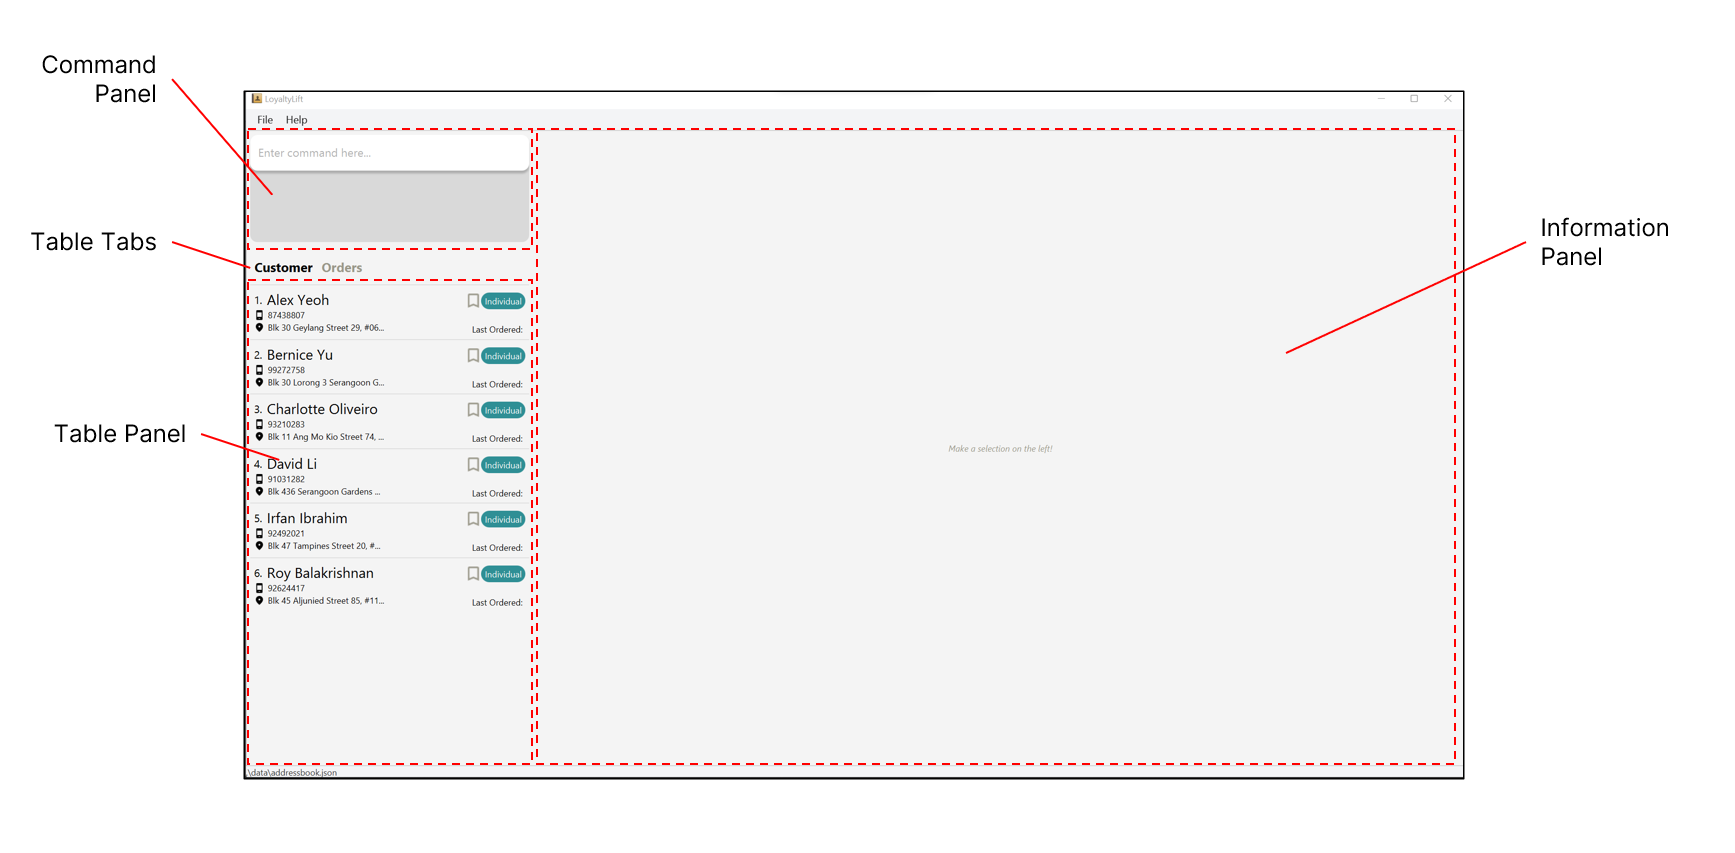
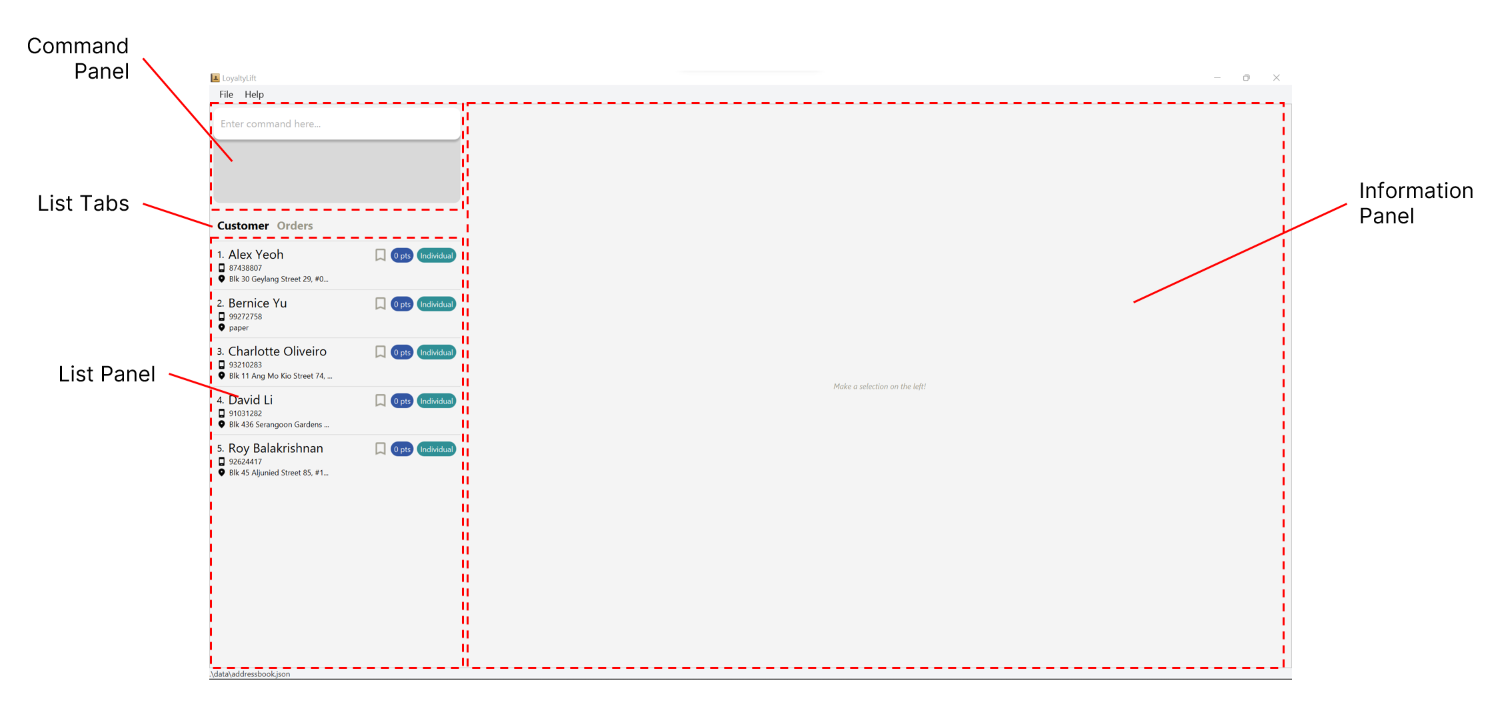
chore: Update descriptions and layout explanation in UG

diff --git a/docs/UserGuide.md b/docs/UserGuide.md
@@ -72,23 +72,22 @@ Before starting your journey with LoyaltyLift, let's take a quick look at the la
 
 ![Layout of LoyaltyLift](images/loyaltyLiftLayout.png)
 
-It comprises 3 panels, the Information Panel, Command Panel and Table Panel. 
-The table panel displays either the **customers** or **orders**. 
-This can be configured by selecting the corresponding tab in the Table Tabs area.
-
+It comprises 3 panels, the _Information Panel_, _Command Panel_ and _List Panel_. 
+The _List Panel_ displays either **customers** or **orders**, which is controlled by _List Tabs_.
+  
 The components are summarised below.
 
-|         Component | Purpose                                                           |
-|------------------:|:------------------------------------------------------------------|
-|     Command Panel | Input area to submit your command to LoyaltyLift                  |
-| Information Panel | Displays details of a specific customer or order                  |
-|       Table Panel | Displays list of customers or orders                              |
-|        Table Tabs | Switch between displaying customers and orders in the Table Panel |
+|         Component | Purpose                                                            |
+|------------------:|:-------------------------------------------------------------------|
+|     Command Panel | Input area to submit your command to LoyaltyLift                   |
+| Information Panel | Displays details of a specific customer or order                   |
+|        List Panel | Displays list of customers or orders                               |
+|         List Tabs | Switch between displaying customers and orders in the _List Panel_ |
 
 #### Using the CLI
 {: .no_toc}
 
-The Command Panel is where you type your commands and submit them.
+The _Command Panel_ is where you type your commands and submit them.
 LoyaltyLift then processes your request and performs them if it is successful.
 
 If LoyaltyLift understands your request, it will perform it and display feedback that it has succeeded, as seen below.
@@ -200,7 +199,7 @@ Let's take a look at our current list of orders, which should only consist of th
     listo
 
 Notice that the order's status is now 'Pending'.
-To advance an order's status, the [`advo`]() command will come in handy, which takes the order index as its only parameter.
+To advance an order's status, the [`advo`](#advancing-an-order-status-advo) command will come in handy, which takes the order index as its only parameter.
 
     advo 1
 
@@ -212,7 +211,7 @@ Further attempts to advance the order status will return an error!
 #### Reverting an order's status
 {: .no_toc}
 
-To revert an order's status, the [`revo`]() command is similar to `advo` but has the inverse effect. 
+To revert an order's status, the [`revo`](#reverting-an-order-status-revo) command is similar to [`advo`](#advancing-an-order-status-advo) but has the inverse effect. 
 
     revo 1
 
@@ -222,7 +221,7 @@ As expected, trying to revert the status when it is already 'Pending', will be m
 #### Cancelling an order
 {: .no_toc}
 
-An order can be cancelled at any stage of the order. This can be performed with the [`cancelo`]() command.
+An order can be cancelled at any stage of the order. This can be performed with the [`cancelo`](#cancel-an-order-cancelo) command.
 
     cancelo 1
 
@@ -318,7 +317,6 @@ Here are some recommended features to explore after this tutorial.
 
 * Editing a customer or order's information with [`editc`](#editing-a-customer--editc) or [`edito`](#editing-an-order--edito)
 * Assigning a customer as an individual or enterprise with [`addc`](#adding-a-customer--addc) or [`editc`](#editing-a-customer--editc)
-* Set or adding rewards points for the customer with [`setpoints`](#setting-reward-points-for-a-customer--setpoints) or [`addpoints`](#adding-points-for-a-customer--removing-points-from-a-customer--addpoints)
 
 [🠕 Back To Top](#table-of-contents)
 
@@ -340,7 +338,7 @@ Here are some recommended features to explore after this tutorial.
   e.g. `ct/{ind|ent}` is a parameter that should be used as `ct/ind` or `ct/ent` exactly.
 
 * You can enter parameters in any order.<br>
-  e.g. if the command specifies `n/NAME p/PHONE_NUMBER`, `p/PHONE_NUMBER n/NAME` is also acceptable.
+  e.g. if the command specifies `n/NAME p/PHONE`, `p/PHONE n/NAME` is also acceptable.
 
 * If a parameter is specified multiple times, only the last occurrence of the parameter will be taken.<br>
   e.g. if you specify `p/12341234 p/56785678`, only `p/56785678` will be taken.
@@ -356,7 +354,7 @@ Here are some recommended features to explore after this tutorial.
 
 * The index **must be a positive integer** 1, 2, 3, … 
 
-* The index refers to the index number of a customer or order as shown in the **Table Panel**.
+* The index refers to the index number of a customer or order as shown in the **List Panel**.
   * `CINDEX` refers to a customer's index
   * `OINDEX` refers to an order's index
 
@@ -371,7 +369,7 @@ Adds a customer to the current list.
 **Format**
 
 ```
-addc n/NAME p/PHONE_NUMBER e/EMAIL a/ADDRESS [ct/{ind|ent}]
+addc n/NAME p/PHONE e/EMAIL a/ADDRESS [ct/{ind|ent}]
 ```
 
 | Prefix  | Parameter     | Optional | Description                              |
@@ -400,7 +398,7 @@ addc n/NAME p/PHONE_NUMBER e/EMAIL a/ADDRESS [ct/{ind|ent}]
 
 #### Listing customers : `listc`
 
-Shows a list of customers in the **Table Panel**.
+Shows a list of customers in the **List Panel**.
 
 **Format**
 
@@ -440,7 +438,7 @@ Finds customers whose names contain any of the given keywords.
 findc KEYWORD [MORE_KEYWORDS]
 ```
 
-* The search is case-insensitive. e.g `hans` will match `Hans`
+* The search is case-insensitive. e.g. `hans` will match `Hans`
 * The order of the keywords does not matter. e.g. `Hans Bo` will match `Bo Hans`
 * Only the name is searched.
 * Only full words will be matched e.g. `Han` will not match `Hans`
@@ -493,7 +491,7 @@ Edits an existing customer in LoyaltyLift.
 **Format**
 
 ```
-editc CINDEX [n/NAME] [p/PHONE_NUMBER] [e/EMAIL] [a/ADDRESS] [ct/{ind|env}]
+editc CINDEX [n/NAME] [p/PHONE] [e/EMAIL] [a/ADDRESS] [ct/{ind|env}]
 ```
 
 * Edits the customer at the specified `CINDEX`. 
@@ -604,9 +602,7 @@ unmarkc CINDEX
 
 #### Setting a customer's note : `setnotec`
 
-Sets a customer's note.
-
-Note that information about your customer down with the `setnotec` command!
+By creating a note, you can keep track of essential details of your customers, such as their preferences or previous feedbacks.
 
 **Format**
 
@@ -643,7 +639,7 @@ You can remove a customer's note by setting an empty note.
 
 #### Appending a customer's note : `appendnotec`
 
-Adds more text to a customer's note.
+In the event that you have more information to add for a customer, `appendnotec` comes in handy to add details to an existing note without replacing it. 
 
 **Format**
 
@@ -679,7 +675,7 @@ appendnotec CINDEX nt/NOTE
 
 #### Setting reward points for a customer : `setpoints`
 
-Sets a customer's reward points.
+`setpoints` allows you to directly set both the current and cumulated points of a customer.
 
 **Format**
 
@@ -713,7 +709,8 @@ Setting points will also set cumulative points to the same amount, if you wish t
 
 #### Adding/Subtracting points for a customer : `addpoints`
 
-Edits a customer's reward points by adding or subtracting from it.
+With `addpoints`, you can add or subtract points from your customer as they place orders from you. 
+LoyaltyLift keeps track of their cumulated points and assigns them a tier to let you know who are your most loyal customers!
 
 **Format**
 
@@ -786,7 +783,7 @@ addo CINDEX n/NAME [q/QUANTITY] [a/ADDRESS]
 
 #### Listing all orders : `listo`
 
-Shows a list of orders in the **Table Panel**.
+Shows a list of orders in the **List Panel**.
 
 **Format**
 
@@ -915,7 +912,7 @@ edito OINDEX [n/NAME] [q/QUANTITY] [a/ADDRESS]
 
 #### Advancing an order status: `advo`
 
-Advances an order's status.
+As you process the order for your customer, you can update the order's status easily with `advo`. 
 
 **Format**
 
@@ -943,7 +940,7 @@ If the order is completed, the status cannot be advanced further
 
 #### Reverting an order status: `revo`
 
-Reverts an order's status to its previous status. 
+In the event that an order's progress has to reset backwards, `revo` helps you revert the order to the previous status.
 
 **Format**
 
@@ -975,7 +972,7 @@ revo OINDEX
 
 #### Cancel an order: `cancelo`
 
-Changes an order's status to "Cancelled"
+With `cancelo`, you can update an order's status as cancelled whenever an order is invalid, or the customer cancels an order.
 
 **Format**
 
@@ -1022,7 +1019,7 @@ deleteo OINDEX
 
 #### Setting an order's note : `setnoteo`
 
-Sets an order's note.
+By creating notes for your orders, you can save crucial details of orders, such as customer requests or preferred delivery timings. 
 
 **Format**
 
@@ -1048,7 +1045,7 @@ You can remove an order's note by setting an empty note.
 * `listo` followed by `setnoteo 2 nt/Keep cool`<br>
   Sets the 2nd order's note as "Keep cool".
 
-* `listc` followed by `setnoteo 2 nt/`<br>
+* `listo` followed by `setnoteo 2 nt/`<br>
   Removes the 2nd order's note.
 
 * `findo Brownies` followed by `setnoteo 1 nt/Vegan-friendly`<br>
@@ -1058,7 +1055,7 @@ You can remove an order's note by setting an empty note.
 
 #### Appending an order's note : `appendnoteo`
 
-Adds more text to an order's note.
+In the event that an additional customer request for an order comes in, you can use `appendnoteo` to add to the existing note of an order.
 
 **Format**
 
@@ -1160,18 +1157,18 @@ Customer and order data are saved in the hard disk automatically after any comma
 
 ### Customer
 
-|                       Action | Format, Examples                                                                                                                                                                             |
-|-----------------------------:|----------------------------------------------------------------------------------------------------------------------------------------------------------------------------------------------|
-|             **Add Customer** | <code>addc [ct/{ind&#124;ent}] n/NAME p/PHONE_NUMBER e/EMAIL a/ADDRESS` <br> e.g., `addc n/James Ho p/22224444 e/jamesho@example.com a/123, Clementi Rd, 1234665 t/friend t/colleague</code> |
-|            **List Customer** | `listc` <br>                                                                                                                                                                                 |
-|            **Find Customer** | `findc KEYWORD [MORE_KEYWORDS]` <br> e.g., `findc Hans Bo`                                                                                                                                   |
-|            **View Customer** | `viewc CINDEX` <br> e.g. `viewc 2`                                                                                                                                                           |
-|            **Edit Customer** | <code>editc CINDEX [ct/{ind&#124;env}] [n/NAME] [p/PHONE_NUMBER] [e/EMAIL] [a/ADDRESS]` <br> e.g. `editc 1 p/91234567 e/johndoe@example.com</code>                                           |
-|          **Delete Customer** | `deletec CINDEX`<br> e.g., `deletec 3`                                                                                                                                                       |
-|            **Mark Customer** | `markc CINDEX` <br> e.g., `markc 1`                                                                                                                                                          |
-|          **Unmark Customer** | `unmarkc CINDEX` <br> e.g., `unmarkc 1`                                                                                                                                                      |                                                                                                                                      |
-|    **Set Note for Customer** | `setnotec CINDEX nt/NOTE` <br> e.g., `setnotec 2 nt/Very friendly!`                                                                                                                          |
-| **Append Note for Customer** | `appendnotec CINDEX nt/NOTE` <br> e.g., `appendnotec 2 nt/Very friendly!`                                                                                                                    |
+|                       Action | Format, Examples                                                                                                                                                                      |
+|-----------------------------:|---------------------------------------------------------------------------------------------------------------------------------------------------------------------------------------|
+|             **Add Customer** | <code>addc [ct/{ind&#124;ent}] n/NAME p/PHONE e/EMAIL a/ADDRESS` <br> e.g., `addc n/James Ho p/22224444 e/jamesho@example.com a/123, Clementi Rd, 1234665 t/friend t/colleague</code> |
+|            **List Customer** | `listc` <br>                                                                                                                                                                          |
+|            **Find Customer** | `findc KEYWORD [MORE_KEYWORDS]` <br> e.g., `findc Hans Bo`                                                                                                                            |
+|            **View Customer** | `viewc CINDEX` <br> e.g. `viewc 2`                                                                                                                                                    |
+|            **Edit Customer** | <code>editc CINDEX [ct/{ind&#124;env}] [n/NAME] [p/PHONE] [e/EMAIL] [a/ADDRESS]` <br> e.g. `editc 1 p/91234567 e/johndoe@example.com</code>                                           |
+|          **Delete Customer** | `deletec CINDEX`<br> e.g., `deletec 3`                                                                                                                                                |
+|            **Mark Customer** | `markc CINDEX` <br> e.g., `markc 1`                                                                                                                                                   |
+|          **Unmark Customer** | `unmarkc CINDEX` <br> e.g., `unmarkc 1`                                                                                                                                               |                                                                                                                                      |
+|    **Set Note for Customer** | `setnotec CINDEX nt/NOTE` <br> e.g., `setnotec 2 nt/Very friendly!`                                                                                                                   |
+| **Append Note for Customer** | `appendnotec CINDEX nt/NOTE` <br> e.g., `appendnotec 2 nt/Very friendly!`                                                                                                             |
 
 ### Rewards
 
